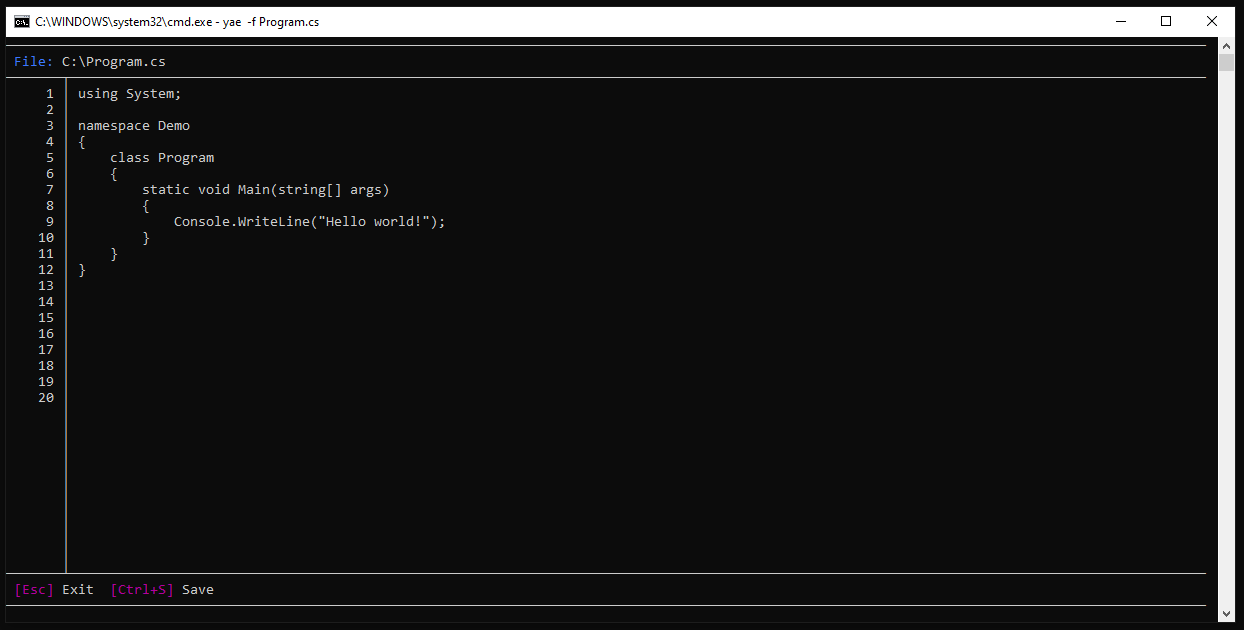
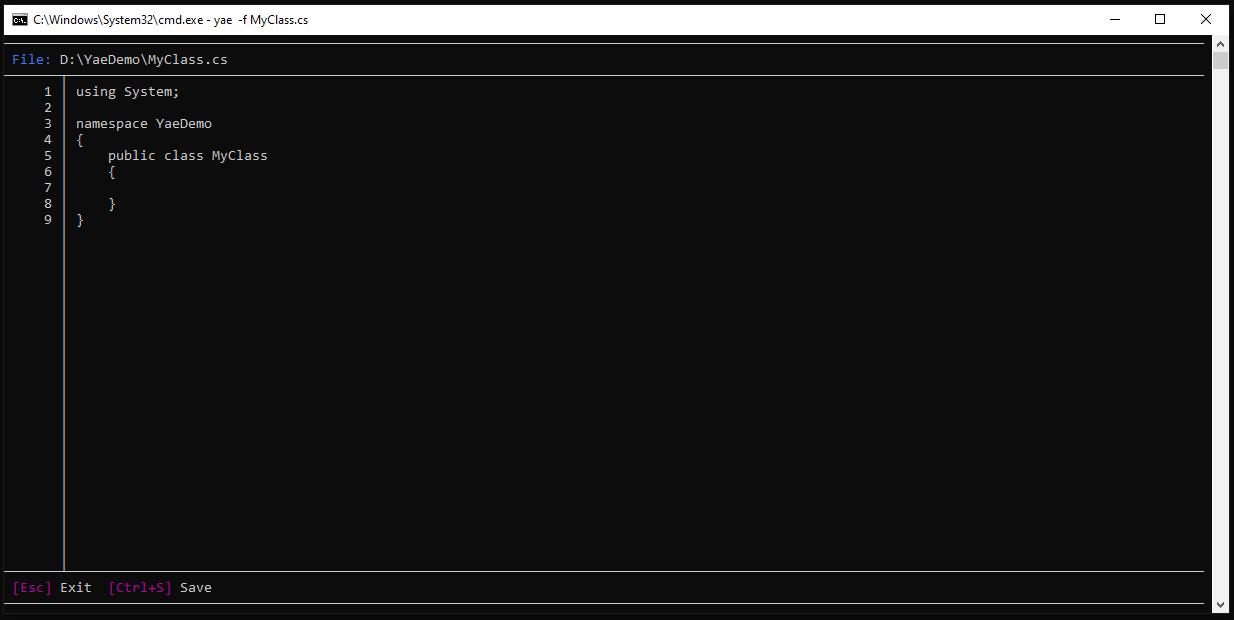
add demo to README.md

Changed region(s): [[0.0, 0.0, 1.0, 1.0], [0.0924, 0.2452, 0.3079, 0.3065], [0.1232, 0.3371, 0.3695, 0.3677]]

diff --git a/README.md b/README.md
@@ -37,7 +37,7 @@ Options:
 - open file : *-f | --file \<FILE\>*
 - set editor lines per page count : *-n | --count \<COUNT\>*
 
-Examples for global tool:
+Examples:
  
 ```text
 yae -h
@@ -46,10 +46,6 @@ yae -f file.txt
 yae -f C:\file.txt
 yae -n 30 -f C:\file.txt
 ```
-
-Editor window:
-
-![editor](docs/images/yae.png)
 
 ### Use templates
 
@@ -66,9 +62,27 @@ Options:
 - set output (default current directory) : *-o \<OUTPUT\>* 
 - set type name : *-t \<TYPE_NAME\>*
 
+Examples:
+
 ```text
 dotnet new class -t Car
 dotnet new enum -t Color
 dotnet new interface -t IPerson
 dotnet new struct -t Point
 ```
+
+### Demo
+
+Try it out:
+
+```text
+mkdir YaeDemo
+cd YaeDemo
+dotnet new console
+dotnet new class -t MyClass
+yae -f MyClass.cs
+```
+
+Editor window:
+
+![editor](docs/images/yae.png)
